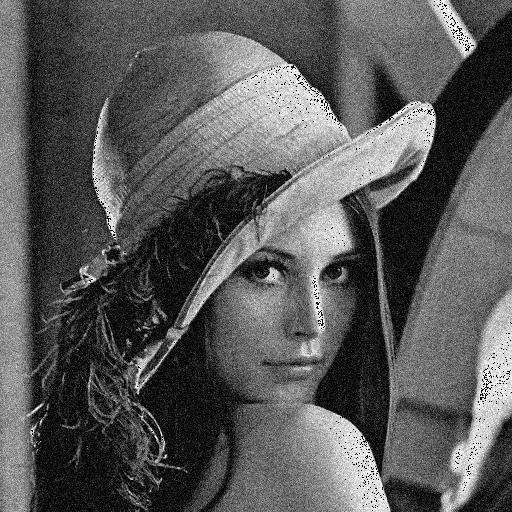
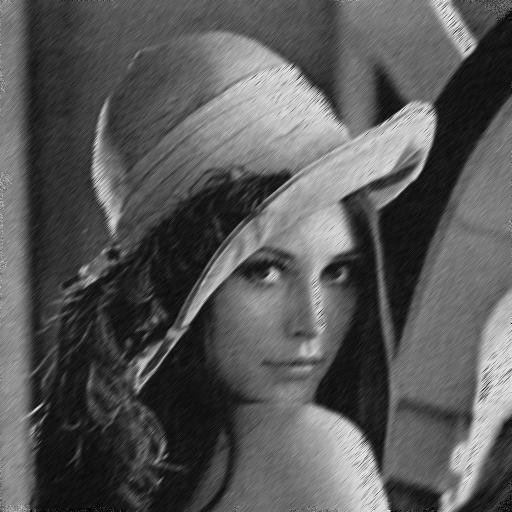
Fixing the local method

Changed region(s): [[0.0, 0.0, 1.0, 1.0], [0.125, 0.875, 0.1562, 0.9062]]

diff --git a/src/main/java/src/main/java/Main.java b/src/main/java/src/main/java/Main.java
@@ -29,13 +29,14 @@ public class Main {
          int [][] imageBruit = image.getNoisedMatrix();
          ArrayList<Patch> listeImagette = image.extractImagettes(image.getMatrix(), W, n);
          ArrayList<Patch> listeImagetteBruité = image.extractImagettes(imageBruit, W, n);
-         int [][] imagette = new int[W][W];
-         int [][] imagetteBruité = new int[W][W];
          for (int i = 0; i < listeImagetteBruité.size(); i++) {
+            int [][] imagette = new int[W][W];
+            int [][] imagetteBruité = new int[W][W];
             imagette = listeImagette.get(i).getMatrix();
             imagetteBruité = listeImagetteBruité.get(i).getMatrix();
             Image objImagette = new Image(imagette, imagetteBruité, taille);
             imagetteBruité = methodeGlobale(objImagette, seuillage, taille, choixSeuil, choixSeuillage);
+            listeImagetteBruité.get(i).setMatrix(imagetteBruité);
 
             // imagette = listeImagette.get(i).getMatrix();
             // imagetteBruité = listeImagetteBruité.get(i).getMatrix();
@@ -46,7 +47,7 @@ public class Main {
          }
          int l = imageBruit.length;
          int c = imageBruit[0].length;
-         int[][] imageRecon = image.assemblageImagette(listeImagetteBruité, imageBruit, l,c);
+         int[][] imageRecon = image.assemblageImagette(listeImagetteBruité, imageBruit, l,c, W);
          BufferedImage imagefinale = Image.createImageFromMatrix(imageRecon);
          Image.createfile(imagefinale,"local");
       }

diff --git a/src/main/java/src/main/java/Image.java b/src/main/java/src/main/java/Image.java
@@ -8,6 +8,7 @@ import javax.imageio.ImageIO;
 import java.awt.Color;
 import java.awt.image.BufferedImage;
 import java.util.ArrayList;
+import java.util.Arrays;
 public class Image {
 
     //Matrice de l'image
@@ -324,11 +325,10 @@ public ArrayList<Patch> extractImagettes(int[][] X, int W, int n) {
     return ListeImagette;
 }
 
-public int[][] assemblageImagette(ArrayList<Patch> ListeImagette, int[][] imageDepart, int l,int c){
+public int[][] assemblageImagette(ArrayList<Patch> ListeImagette, int[][] imageDepart, int l,int c, int W){
     
     int [][] imageRecon = new int[l][c];
     int [][] matricePoids = new int [l][c]; 
-
     int cointx;
     int cointy;
 
@@ -338,8 +338,8 @@ public int[][] assemblageImagette(ArrayList<Patch> ListeImagette, int[][] imageD
         cointy = ListeImagette.get(k).getPositionY();
         int[][] patch = ListeImagette.get(k).getMatrix();
         
-        for (int n = 0; n < s; n++) {
-            for (int m = 0; m < s; m++) {
+        for (int n = 0; n < W; n++) {
+            for (int m = 0; m < W; m++) {
                 // Superposition des patchs dans la matrice
                 imageRecon[n + cointx][m + cointy] += patch[n][m];
                 // Ajout du poids pour chaque élément de la matrice
